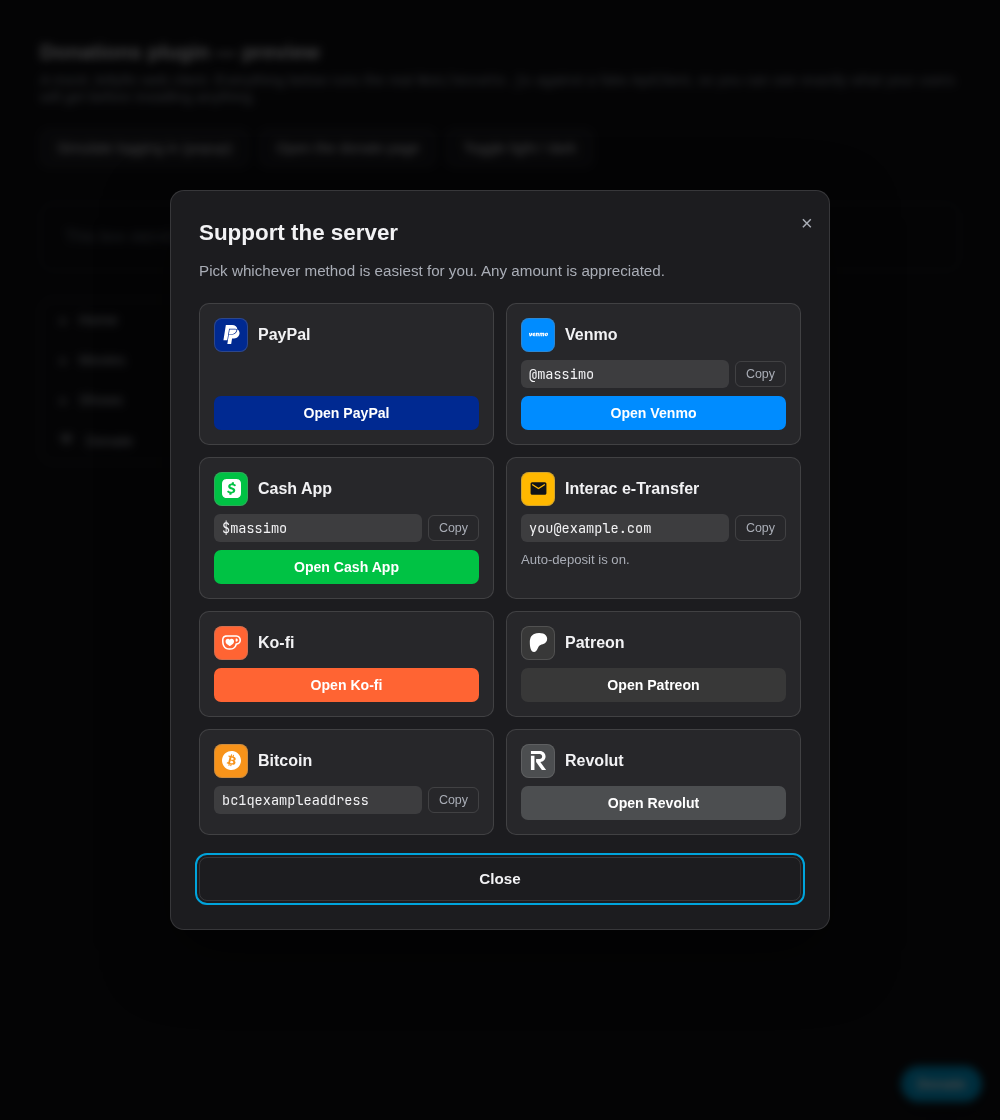
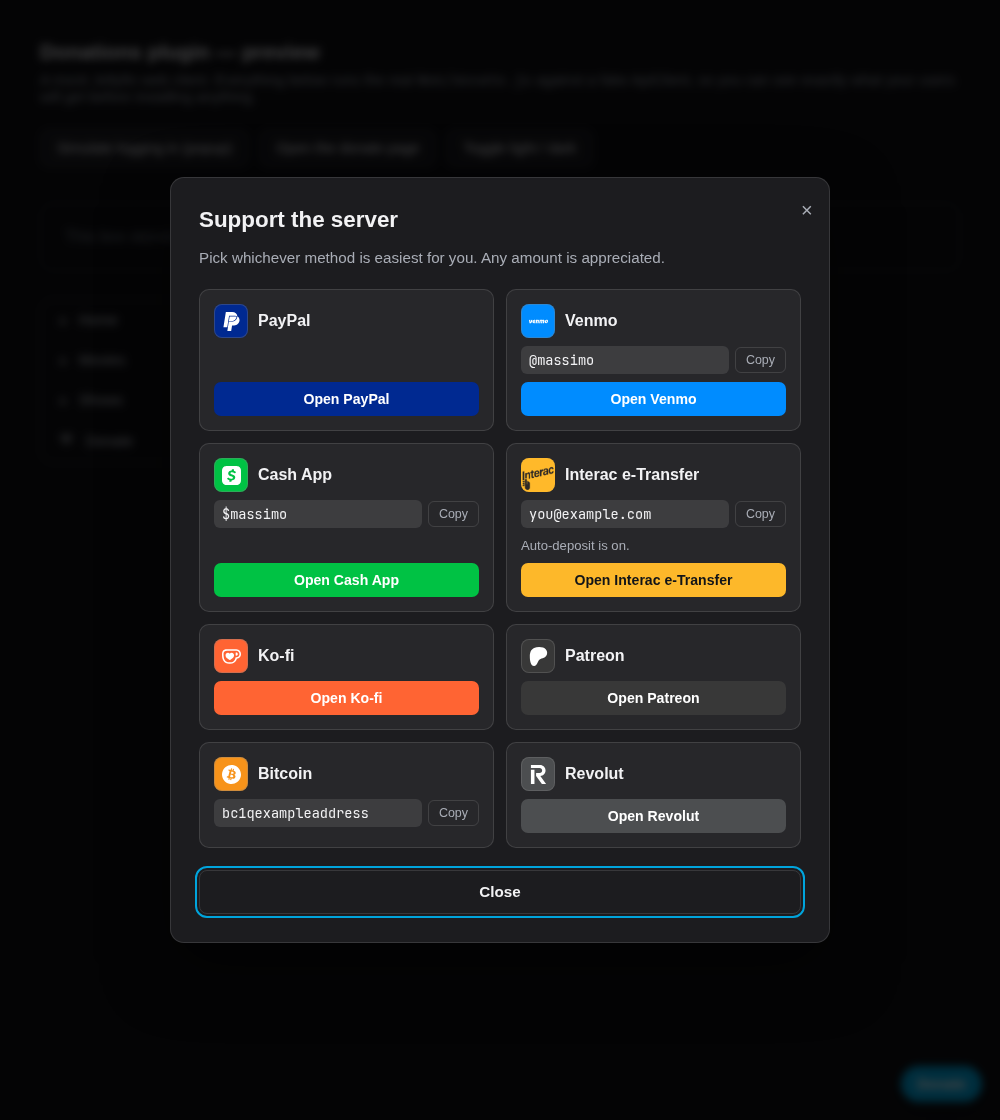
Use the real Interac badge instead of a generic envelope
Interac has no Simple Icons entry, so the card fell back to an envelope
glyph. The actual badge is now embedded, matching how the other thirteen
methods are handled.

The logo is inlined as a 96px palette-reduced PNG, about 1.2KB, rather
than linked to the image that was supplied: hotlinking would make every
viewer's browser fetch from a third-party host, break whenever that host
changes, and stop the donate page working offline - the same reasons the
vector marks are inlined.

An icon entry can now carry an image instead of a path. Image marks
supply their own background, so the tile is left transparent rather than
tinted, which would otherwise show at the edges. The badge's yellow is
picked up as the card colour, and the existing luminance check puts dark
text on it. A method named just "e-Transfer" still gets the envelope.

Claude-Session: https://claude.ai/code/session_017mf9Wx8Fqwvv7uHk5jQeca

Changed region(s): [[0.155, 0.1562, 0.837, 0.8438]]

diff --git a/Jellyfin.Plugin.Donate/Web/donate.js b/Jellyfin.Plugin.Donate/Web/donate.js
@@ -236,6 +236,30 @@
     };
 
     /*
+     * Interac has no Simple Icons entry and its mark carries usage rules, so the badge
+     * is embedded here as a small PNG rather than hotlinked - same rule as the rest:
+     * nothing third-party is fetched into a viewer's browser. 96px, palette-reduced,
+     * about 1.2KB; it carries its own background so the tile is left transparent.
+     */
[16 lines of base64/hex data omitted]
+            + '9DJv90gD1y+fHMTPkn94yMKcmJJ+l/APYJVeGLU3U4AAAAAElFTkSuQmCC';
+
+    /*
      * Methods with no brand mark available get a glyph that says what they are, rather
      * than a text badge. Interac e-Transfer is literally an email money transfer, so an
      * envelope reads correctly - and drawing its trademark would be wrong anyway.
@@ -263,7 +287,7 @@
 
     // Checked in order; the first pattern that matches the method name wins.
     var GENERIC_MATCHERS = [
-        { pattern: /interac|etransfer|emailtransfer|virement/, icon: 'envelope' },
+        { pattern: /etransfer|emailtransfer|virement/, icon: 'envelope' },
         { pattern: /bank|iban|swift|sepa|wire|directdeposit|eft/, icon: 'bank' },
         { pattern: /card|visa|mastercard|amex|credit|debit/, icon: 'card' },
         { pattern: /cash|money|envelope|inperson/, icon: 'cash' }
@@ -273,6 +297,8 @@
      * Maps a method name onto a brand mark. "Cash App", "cash-app" and "cashapp" all
      * land on the same icon, and a few common aliases are spelled out.
      */
+    BRAND_ICONS.interac = { color: '#FDB82A', image: INTERAC_LOGO };
+
     var BRAND_ALIASES = {
         cash: 'cashapp',
         squarecash: 'cashapp',
@@ -453,6 +479,8 @@
             'box-shadow:inset 0 0 0 1px rgba(128,128,128,.35);',
             'justify-content:center;font-size:15px;font-weight:700;color:#fff;background:var(--jfd-accent);',
             'text-transform:uppercase;}',
+            '.jfd-icon-image{overflow:hidden;background:transparent !important;}',
+            '.jfd-icon-image img{width:100%;height:100%;object-fit:cover;display:block;}',
             '.jfd-method-name{font-weight:600;font-size:1em;}',
             '.jfd-handle{display:flex;align-items:center;gap:6px;}',
             '.jfd-handle code{flex:1 1 auto;min-width:0;overflow:hidden;text-overflow:ellipsis;white-space:nowrap;',
@@ -750,17 +778,26 @@
 
         // Brand mark when we recognise the method, otherwise the text badge.
         var brand = brandFor(method.Name);
-        if (brand) {
+        if (brand && brand.image) {
+            var logo = document.createElement('img');
+            logo.src = brand.image;
+            logo.alt = '';
+            icon.appendChild(logo);
+            icon.className = 'jfd-icon jfd-icon-image';
+        } else if (brand) {
             icon.appendChild(brandSvg(brand));
-            if (!method.Color) {
-                accent = brand.color;
-            }
         } else {
             icon.textContent = (method.Icon || method.Name || '?').substring(0, 2);
         }
 
+        if (brand && !method.Color) {
+            accent = brand.color;
+        }
+
         accent = separateFromBackground(accent, isLightTheme());
-        icon.style.background = accent;
+        // A logo image supplies its own background; tinting behind it would show at the
+        // edges and fight the mark.
+        icon.style.background = (brand && brand.image) ? 'transparent' : accent;
         icon.style.color = readableOn(accent);
         head.appendChild(icon);
         head.appendChild(el('div', 'jfd-method-name', method.Name));

diff --git a/README.md b/README.md
@@ -154,9 +154,10 @@ glyph that matches what it is — an envelope for Interac e-Transfer and other e
 transfers, a bank for IBAN/SEPA/wire, a card for card payments, a banknote for cash —
 and finally to the icon text.
 
-Interac's own logo is deliberately not reproduced: it isn't in the Simple Icons set and
-its trademark carries usage rules, so an envelope is used instead, which is what an
-e-Transfer actually is.
+Interac e-Transfer uses the real Interac badge. It isn't in the Simple Icons set, so it
+is embedded as a small palette-reduced PNG (~1.2KB) rather than hotlinked — same rule as
+the vector marks: nothing is fetched from a third party. A method named just
+"e-Transfer", without Interac, still gets the generic envelope.
 
 Leave the **Accent colour** blank and the card uses the brand's official colour. Text on
 the icon and button flips between black and white based on the background's luminance,
